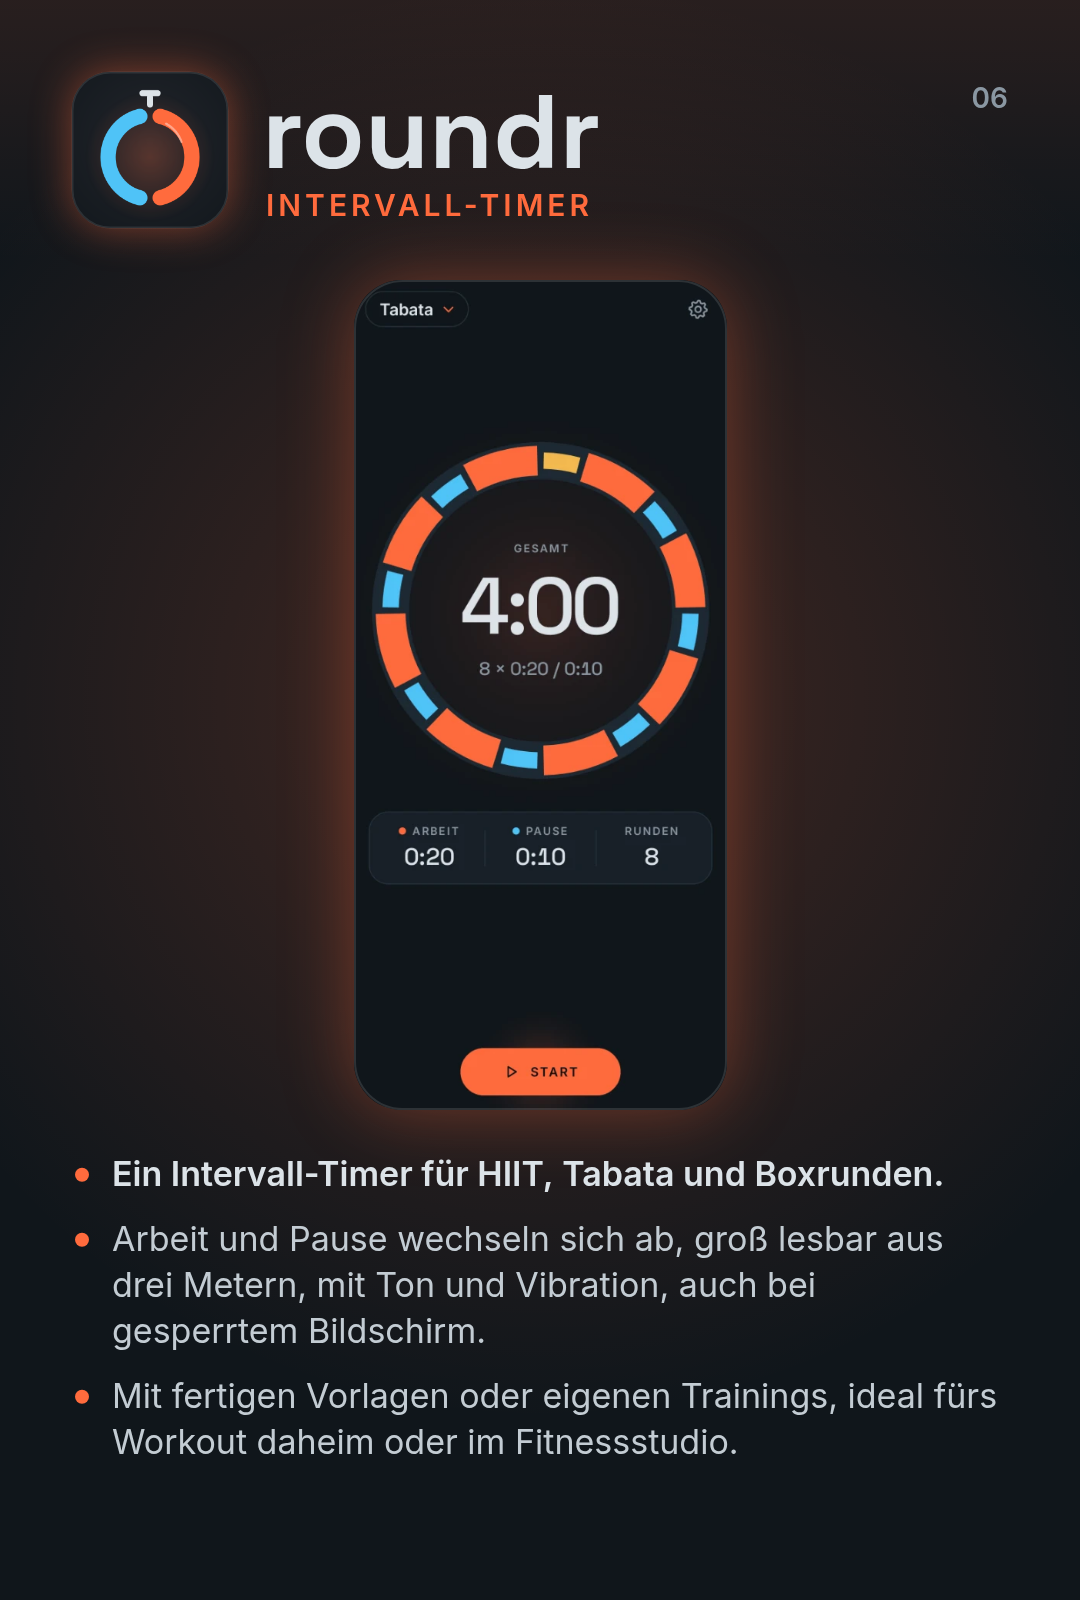
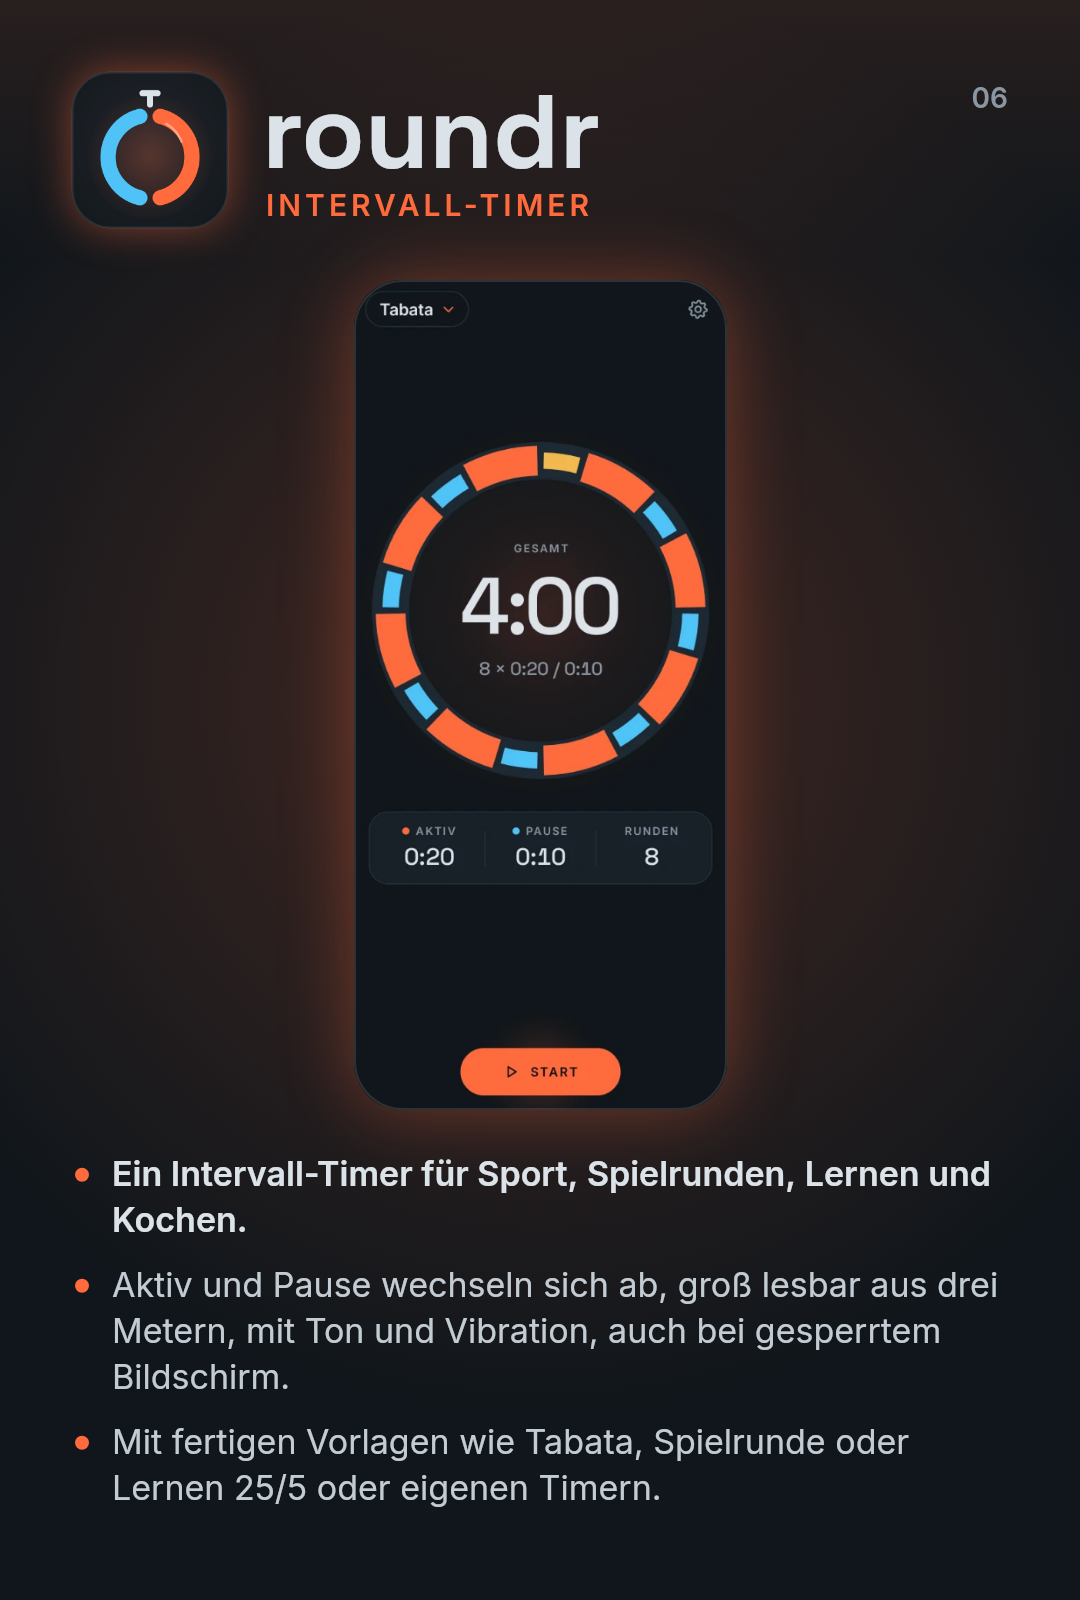
overview: roundr-Karte mit neuen Texten

Changed region(s): [[0.0611, 0.7188, 0.9167, 0.9375], [0.3667, 0.5, 0.4278, 0.5312], [0.8861, 0.8438, 0.9167, 0.875]]

diff --git a/docs/overview/index.html b/docs/overview/index.html
@@ -127,9 +127,9 @@
       </header>
       <figure class="shot"><img src="img/roundr-shot.webp" alt="roundr: Intervall-Timer" width="485" height="1080" loading="lazy"></figure>
       <ul>
-        <li>Ein Intervall-Timer für HIIT, Tabata und Boxrunden.</li>
-        <li>Arbeit und Pause wechseln sich ab, groß lesbar aus drei Metern, mit Ton und Vibration, auch bei gesperrtem Bildschirm.</li>
-        <li>Mit fertigen Vorlagen oder eigenen Trainings, ideal fürs Workout daheim oder im Fitnessstudio.</li>
+        <li>Ein Intervall-Timer für Sport, Spielrunden, Lernen und Kochen.</li>
+        <li>Aktiv und Pause wechseln sich ab, groß lesbar aus drei Metern, mit Ton und Vibration, auch bei gesperrtem Bildschirm.</li>
+        <li>Mit fertigen Vorlagen wie Tabata, Spielrunde oder Lernen 25/5 oder eigenen Timern.</li>
       </ul>
       <a class="png" href="cards/06-roundr.png">Karte als Bild</a>
     </article>
